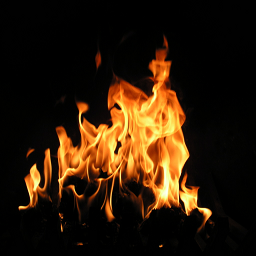
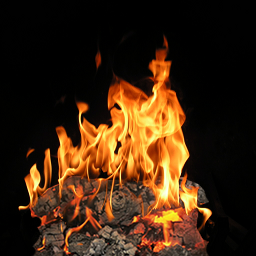
a little better fire textures
git-svn-id: https://svn.code.sf.net/p/foobillardplus/code@121 686cfa1d-b29f-4f9d-ab6c-651d012aca84

Changed region(s): [[0.0938, 0.6875, 0.8125, 1.0]]

diff --git a/src/fire.c b/src/fire.c
@@ -28,6 +28,7 @@
 
 static int fire_id[MAX_FIRE_TEXTURES];          // fire displaylist glcompile-id
 static GLuint firetexbind[MAX_FIRE_TEXTURES];   // texture bindings
+static GLuint firemeshtexbind;                  // texture binding for the mesh
 
 /***********************************************************************
  *                  Initialize the fire textures                       *
@@ -37,6 +38,8 @@ static GLuint firetexbind[MAX_FIRE_TEXTURES];   // texture bindings
 void init_fire(void) {
     int i;
     char firename[10];
+
+    create_png_texbind("firemesh.png", &firemeshtexbind, 3, GL_RGB);
     for (i=0;i<MAX_FIRE_TEXTURES;i++) {
     	  sprintf(firename,"fire%i.png",i);
     	  create_png_texbind(firename, &firetexbind[i], 3, GL_RGB);
@@ -59,6 +62,18 @@ void init_fire(void) {
           glVertex3f(0.75,0.75,0.0);
           glTexCoord2s(1,0);
           glVertex3f(0.75,0.0,0.0);
+         glEnd();
+         glBlendFunc (GL_ONE, GL_SRC_ALPHA);
+         glBindTexture(GL_TEXTURE_2D,firemeshtexbind);
+         glBegin(GL_QUADS);
+          glTexCoord2s(0,0);
+          glVertex3f(-0.08,0.62,-0.12);
+          glTexCoord2s(0,1);
+          glVertex3f(-0.08,0.75,-0.12);
+          glTexCoord2s(1,1);
+          glVertex3f(0.695,0.75,-0.12);
+          glTexCoord2s(1,0);
+          glVertex3f(0.695,0.62,-0.12);
          glEnd();
          glDisable(GL_BLEND);
          glEndList();

diff --git a/src/billard3d.c b/src/billard3d.c
@@ -4472,7 +4472,7 @@ void DisplayFunc( void )
        }
        if(next_flame<0.05){
            next_flame=NEXT_FLAME_COUNTER;
-           if((++flame_frame)>13) {
+           if((++flame_frame)>MAX_FIRE_TEXTURES-1) {
            	flame_frame = 0;
            }
        }

diff --git a/src/billmove.c b/src/billmove.c
@@ -26,7 +26,7 @@
 
 #include "options.h"
 #include "billmove.h"
-#include "math.h"
+#include <math.h>
 #include "vmath.h"
 #include "player.h"
 #include <stdlib.h>
